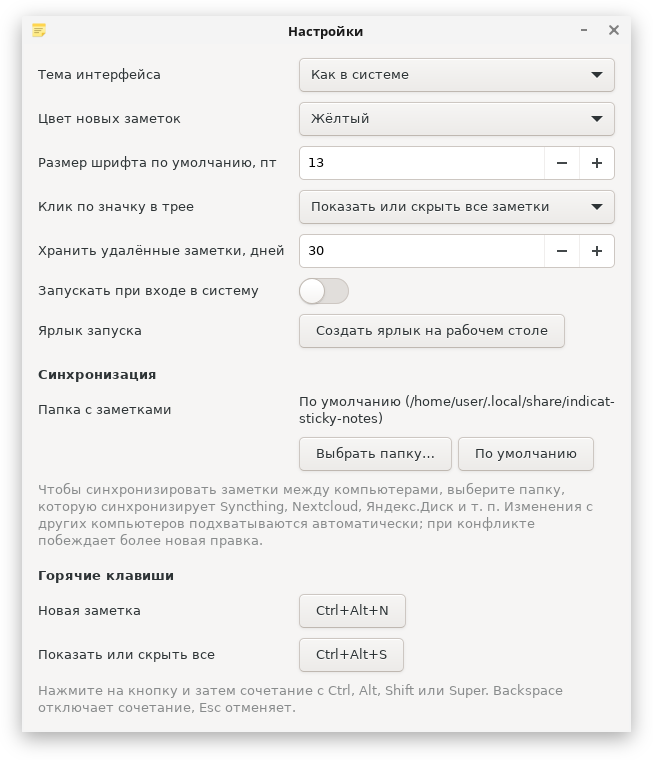
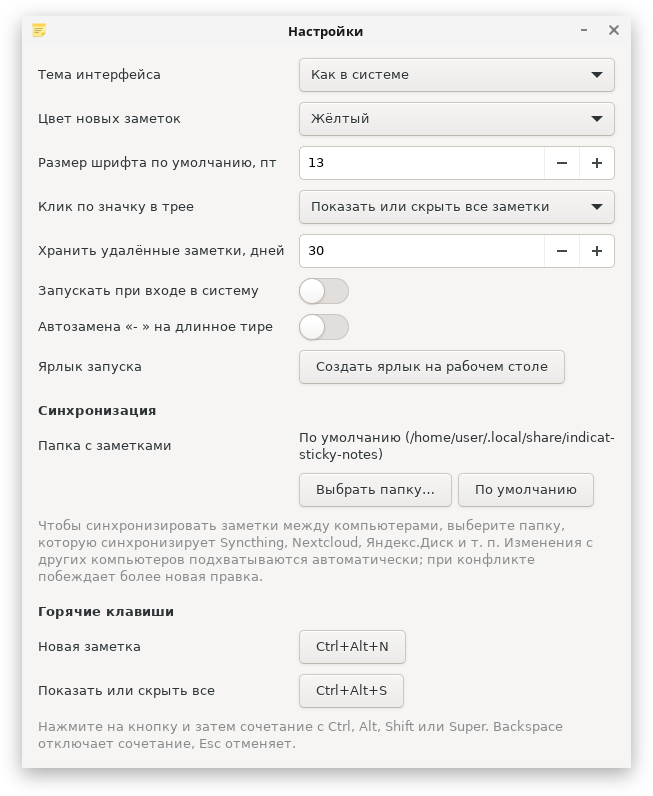
README: mention dash autoconvert setting, refresh settings screenshot

diff --git a/README.md b/README.md
@@ -94,7 +94,7 @@ cd indicat-sticky-notes
 
 Встроенная **справка** (`F1`, а также пункты «Справка» и «О программе» в меню значка) описывает все возможности и сочетания клавиш. Глобальные сочетания меняются в настройках. Они работают в сеансе X11; в Wayland приложение не может перехватывать клавиши вне своих окон, остальные функции работают как обычно.
 
-В настройках также: тема, цвет и шрифт новых заметок, действие по клику на значок, срок хранения корзины, автозапуск при входе, папка синхронизации и кнопка **«Создать ярлык на рабочем столе»**.
+В настройках также: тема, цвет и шрифт новых заметок, действие по клику на значок, срок хранения корзины, автозапуск при входе, автозамена «- » на длинное тире, папка синхронизации и кнопка **«Создать ярлык на рабочем столе»**.
 
 <br clear="right">
 
@@ -138,7 +138,7 @@ sudo dnf install ./build/indicat-sticky-notes-*.noarch.rpm
 Логика проверяется обычными тестами, интерфейс (включая настоящие нажатия горячих клавиш через XTest) в виртуальном X-сервере:
 
 ```bash
-xvfb-run -a python3 -m unittest discover -s tests -t .   # всё, 160+ тестов
+xvfb-run -a python3 -m unittest discover -s tests -t .   # всё, 190+ тестов
 python3 -m unittest discover -s tests -t .               # без дисплея GUI-тесты пропускаются
 ```
 
